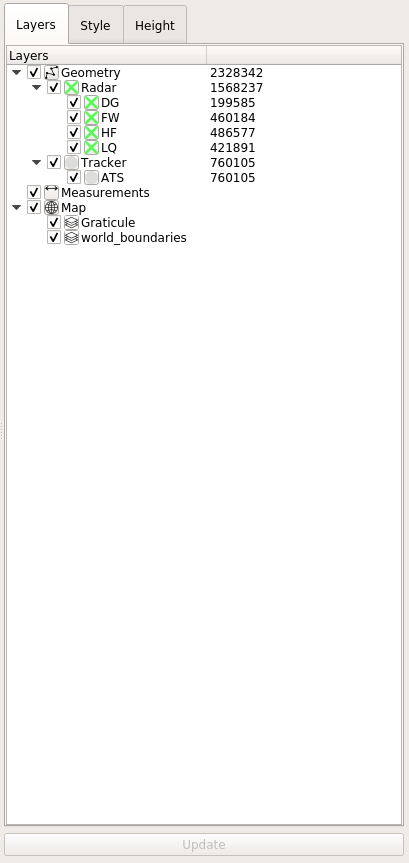
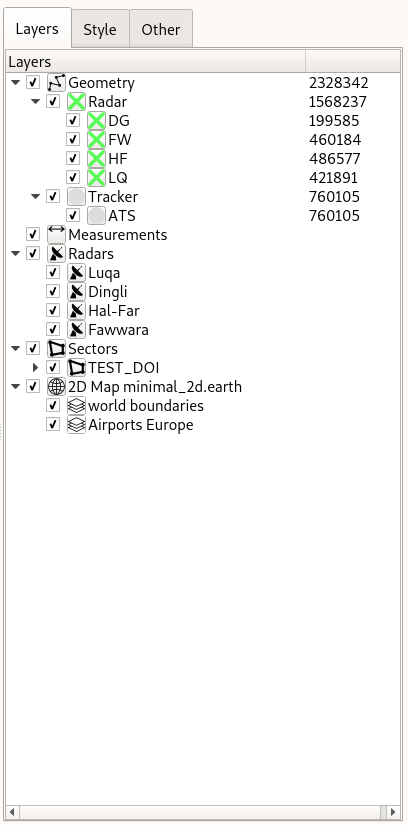
test fixes and doc update

Changed region(s): [[0.0, 0.0, 1.0, 1.0]]

diff --git a/doc/user_manual/osg_layers_radars_ops.tex b/doc/user_manual/osg_layers_radars_ops.tex
@@ -1,0 +1,32 @@
+\subsubsection{Radars Operations}
+\label{sec:osg_radars_ops} 
+
+How to define radar attributes is defined in \nameref{sec:task_manage_datasources}. \\
+
+For each defined radar, the following information can be shown:
+
+\begin{itemize}
+ \item Label text at center position
+ \item Range rings (if defined)
+\begin{itemize}
+ \item Minimum/maximum range
+ \item Colored for PSR in brown, SSR in blue, Mode S in purple
+\end{itemize} 
+\end{itemize} 
+\ \\
+
+The radars layer display configuration is stored in the configuration and restored upon startup. \\
+
+To access the map operations, click the (top) radars symbol \includegraphics[width=0.5cm,frame]{../../data/icons/radar_black.png}, then the following operations are available:
+
+\begin{itemize}
+ \item Show All: Shows all radars
+ \item Hide All: Hides all radars
+ \item Toggle Labels: Shows/hides labels for all radars
+ \item Toggle Range Rings: Shows/hides all range rings for all radars
+\end{itemize} 
+
+\begin{figure}[H]
+    \includegraphics[width=8cm,frame]{../screenshots/osgview_radars_ops.png}
+  \caption{OSG View radars layer operations}
+\end{figure}

diff --git a/doc/user_manual/osg_layers_sectors_ops.tex b/doc/user_manual/osg_layers_sectors_ops.tex
@@ -1,0 +1,34 @@
+\subsubsection{Sectors Operations}
+\label{sec:osg_sectors_ops}  
+
+How to define sectors attributes is defined in \nameref{sec:task_manage_sectors}. \\
+
+For each defined sector, a colored polygon is shown, grouped by it's layer. Such a structure could look as follows:
+
+\begin{itemize}
+ \item Layer A
+ \begin{itemize}
+ \item Sector A1
+ \item Sector A2
+\end{itemize} 
+ \item Layer B
+  \begin{itemize}
+ \item Sector B1
+\end{itemize} 
+\end{itemize}
+
+Each layer or sector can be shown/hidden. The sectors layer display configuration is stored in the configuration and restored upon startup. \\
+
+For the examples shown in the respective task, the following display can be shown:
+
+\begin{figure}[H]
+    \hspace*{-2.5cm}
+    \includegraphics[width=19cm]{../screenshots/osgview_sectors2d.png}
+  \caption{OSG View with 2D Sector Examples}
+\end{figure}
+
+\begin{figure}[H]
+    \hspace*{-2.5cm}
+    \includegraphics[width=19cm]{../screenshots/osgview_sectors3d.png}
+  \caption{OSG View with 3D Sector Examples}
+\end{figure}

diff --git a/doc/user_manual/appendix_algorithms.tex b/doc/user_manual/appendix_algorithms.tex
@@ -10,7 +10,7 @@ Therefore, 95\% is equivalent to two standard deviations ($\sigma$). \\
 
 Please note that currently only the Cartesian variables are used, and are assumed to be valid for the target reports position (and north direction), not for a system center. \\
 
-The usage WGS-84 variables will be added in one of the next releases.
+The usage WGS-84 variables is included, an calculated to Cartesian values on the position of the target report.
 
 \subsection{ADS-B}
 
@@ -139,7 +139,7 @@ The standard deviates used for display purposes are calculated based on the rang
 
 \subsection{RefTraj}
 
-The usage WGS-84 variables will be added in one of the next releases.
+Calculated as the Tracker APW values.
 
 \subsection{Tracker}
 

diff --git a/doc/user_manual/osg_layers_tab.tex b/doc/user_manual/osg_layers_tab.tex
@@ -13,6 +13,8 @@ The following main tree elements are:\\
 \begin{itemize}
  \item Geometry: Shows current DBO elements
  \item Measurements: Shows the current distance measurements
+ \item Radars: Shows the existing radars 
+ \item Sectors: Shows the existing sectors
  \item Map: Shows current map layers
 \end{itemize} 
  \ \\
@@ -40,5 +42,9 @@ The context menu allows several actions to be performed on an item. If an item h
 \subfile{osg_layers_geo_ops}
 
 \subfile{osg_layers_measure_ops}
+
+\subfile{osg_layers_radars_ops}
+
+\subfile{osg_layers_sectors_ops}
 
 \subfile{osg_layers_map_ops}

diff --git a/src/test/test_import_asterix.cpp b/src/test/test_import_asterix.cpp
@@ -77,6 +77,7 @@ TEST_CASE("ATSDB Import ASTERIX", "[ATSDB]")
     REQUIRE(connection_widget);
 
     connection_widget->addFile(db_filename);
+    connection_widget->selectFile(db_filename);
     connection_widget->openFileSlot();
 
     while (client.hasPendingEvents())

diff --git a/src/test/test_import_json.cpp b/src/test/test_import_json.cpp
@@ -79,6 +79,7 @@ TEST_CASE("ATSDB Import JSON", "[ATSDB]")
     REQUIRE(connection_widget);
 
     connection_widget->addFile(db_filename);
+    connection_widget->selectFile(db_filename);
     connection_widget->openFileSlot();
 
     while (client.hasPendingEvents())
